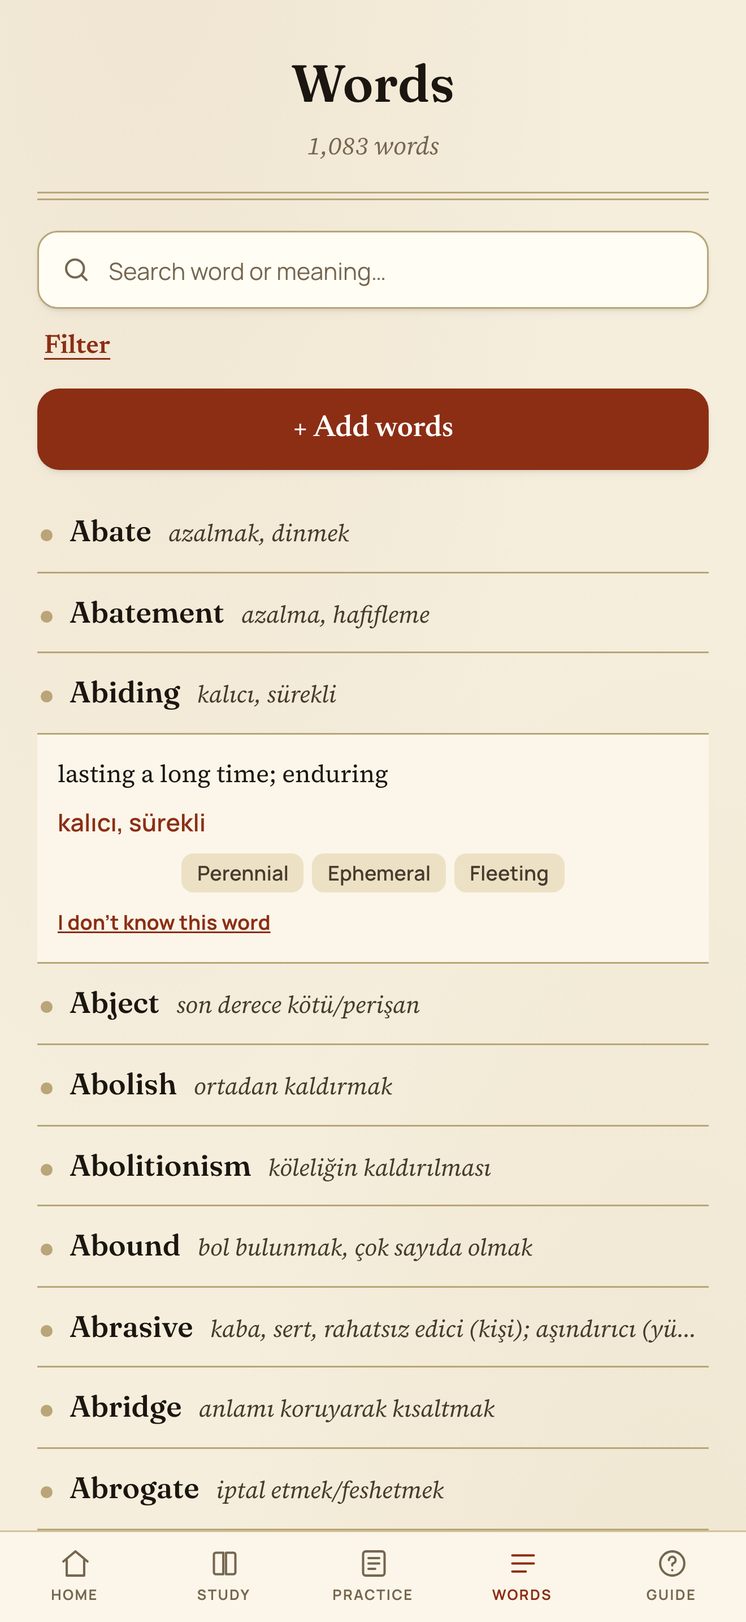
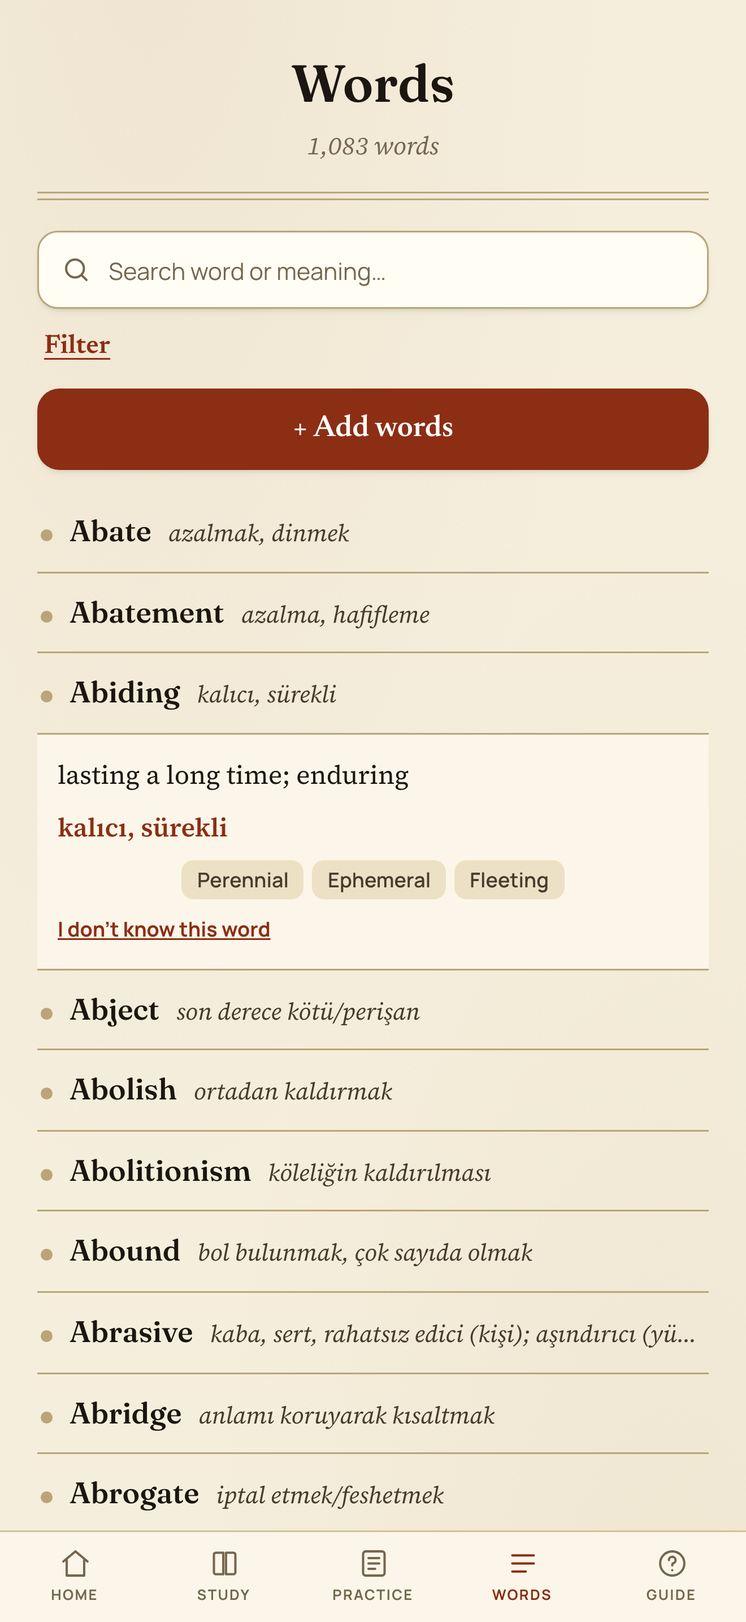
Practice nav above the meanings, serif meanings, a meaning for every option, Reach us
- Previous / Next now sit right under the verdict, before the option meanings
  and the explanation, so moving on never means scrolling past them
- Option meanings, the explanation, the verdict, and the meanings in the word
  list and word detail are set in Source Serif 4 like the words they explain
- Every practice option shows a meaning: options that are not in the word list
  carry their own (g / g_tr in data/questions.js); the data test enforces it
- Settings gains a Reach us panel with a mail link from config.contactEmail;
  the privacy page uses the same address
- supabase/notify-signups.sql + tools/signup-mailer.gs: an email to the owner
  for every new account (pg_net trigger -> Google Apps Script)
- CLAUDE.md for future sessions in this folder; store screenshots regenerated

Changed region(s): [[0.0621, 0.7137, 0.9008, 0.931], [0.0621, 0.4655, 0.7455, 0.6827]]

diff --git a/data/questions.js b/data/questions.js
@@ -1,18 +1,20 @@
 /* Practice bank. ex = English explanation (always shown); ex_<lang> = the same
-   explanation in another language, shown underneath when that language is chosen. */
+   explanation in another language, shown underneath when that language is chosen.
+   g = short meanings for options that are not in the word list; g_<lang> = the same
+   in another language. Options that are in the list take their meaning from it. */
 var QUESTIONS = [
-{"id":"c1","sec":"wic","p":"Marine biologists once assumed that reef fish populations recover quickly after severe storms. Long-term data from the Great Barrier Reef, however, ___ this assumption: several species take more than a decade to return to pre-storm numbers.","o":["bolster","undermine","replicate","anticipate"],"a":1,"ex":"'However' signals a contrast with the old assumption, and slow recovery means the data works against it. Undermine = weaken. Bolster is the opposite (support).","ex_tr":"'however' + yavaş toparlanma → veri varsayımı zayıflatıyor. Undermine = zayıflatmak, çürütmek. Bolster tam tersi (desteklemek)."},
-{"id":"c2","sec":"wic","p":"Because the trial's results were preliminary, the team was careful to ___ its claims, describing the treatment as “promising” rather than “proven.”","o":["temper","trumpet","dismiss","fabricate"],"a":0,"ex":"Calling the treatment 'promising' rather than 'proven' softens the claim. Temper = moderate, tone down. Trumpet would exaggerate it.","ex_tr":"'promising' deyip 'proven' dememek = iddiayı yumuşatmak. Temper = ölçülü hâle getirmek, yumuşatmak."},
-{"id":"c3","sec":"wic","p":"Composer Florence Price was remarkably ___ : in less than three decades she completed more than 300 works, from art songs to full symphonies.","o":["prolific","meticulous","derivative","reclusive"],"a":0,"ex":"More than 300 works in three decades points to sheer output. Prolific = producing a great deal. Meticulous (careful) does not explain the number.","ex_tr":"300+ eser = üretkenlik. Prolific = çok üretken. Meticulous (titiz) sayıyı açıklamaz."},
-{"id":"c4","sec":"wic","p":"Because the manuscript is unsigned and undated, scholars can only ___ about who wrote it, drawing on hints in the handwriting and the ink.","o":["speculate","substantiate","concede","reminisce"],"a":0,"ex":"With no signature or date, scholars have only hints, so they can only guess. Speculate = form a theory without firm evidence. Substantiate needs proof.","ex_tr":"Kanıt yok, sadece ipucu → speculate = kanıta tam dayanmadan tahmin yürütmek. (Rhetorical verbs listenden!)"},
-{"id":"c5","sec":"wic","p":"Working independently, the two research teams arrived at the same estimate of the glacier's age — a ___ that lent considerable weight to the finding.","o":["discrepancy","convergence","conjecture","rebuttal"],"a":1,"ex":"Two independent teams reaching the same estimate is a coming-together of results. Convergence = agreement from separate directions. Discrepancy is the opposite.","ex_tr":"Bağımsız iki ekip aynı sonuca varıyor = converge (aynı noktada birleşme). Discrepancy (tutarsızlık) tam tersi."},
-{"id":"c6","sec":"wic","p":"Critics who once dismissed the artist's early collages as amateur experiments now ___ them as precursors to an entire school of design.","o":["hail","disparage","mimic","obscure"],"a":0,"ex":"'Once dismissed ... now ___' sets up a reversal: the critics now praise the collages. Hail = praise enthusiastically. Disparage describes the old attitude.","ex_tr":"'once dismissed... now ___' → zıtlık: artık övüyorlar. Hail = övgüyle selamlamak. Disparage (kötülemek) eski tutum."},
-{"id":"c7","sec":"wic","p":"Although the region's fossil record is rich in marine species, there is a ___ of evidence for land animals, forcing paleontologists to rely on sites elsewhere.","o":["dearth","plethora","continuum","hierarchy"],"a":0,"ex":"'Although rich in marine species' contrasts with a shortage of land-animal evidence. Dearth = scarcity (a synonym of paucity). Plethora means the opposite.","ex_tr":"'Although rich... ' → zıtlık: azlık. Dearth = paucity = kıtlık. Plethora (bolluk) tuzak, tam tersi."},
+{"id":"c1","sec":"wic","p":"Marine biologists once assumed that reef fish populations recover quickly after severe storms. Long-term data from the Great Barrier Reef, however, ___ this assumption: several species take more than a decade to return to pre-storm numbers.","o":["bolster","undermine","replicate","anticipate"],"a":1,"ex":"'However' signals a contrast with the old assumption, and slow recovery means the data works against it. Undermine = weaken. Bolster is the opposite (support).","ex_tr":"'however' + yavaş toparlanma → veri varsayımı zayıflatıyor. Undermine = zayıflatmak, çürütmek. Bolster tam tersi (desteklemek).","g":{"replicate":"to make an exact copy; to repeat an experiment","anticipate":"to expect, and prepare for"},"g_tr":{"replicate":"kopyalamak; (deneyi) tekrarlamak","anticipate":"önceden tahmin etmek, beklemek"}},
+{"id":"c2","sec":"wic","p":"Because the trial's results were preliminary, the team was careful to ___ its claims, describing the treatment as “promising” rather than “proven.”","o":["temper","trumpet","dismiss","fabricate"],"a":0,"ex":"Calling the treatment 'promising' rather than 'proven' softens the claim. Temper = moderate, tone down. Trumpet would exaggerate it.","ex_tr":"'promising' deyip 'proven' dememek = iddiayı yumuşatmak. Temper = ölçülü hâle getirmek, yumuşatmak.","g":{"temper":"to moderate; to soften","trumpet":"to announce loudly and proudly","dismiss":"to reject as not worth considering","fabricate":"to invent a story or data in order to deceive"},"g_tr":{"temper":"yumuşatmak, ölçülü hâle getirmek","trumpet":"yüksek sesle duyurmak, öve öve anlatmak","dismiss":"reddetmek, göz ardı etmek","fabricate":"uydurmak"}},
+{"id":"c3","sec":"wic","p":"Composer Florence Price was remarkably ___ : in less than three decades she completed more than 300 works, from art songs to full symphonies.","o":["prolific","meticulous","derivative","reclusive"],"a":0,"ex":"More than 300 works in three decades points to sheer output. Prolific = producing a great deal. Meticulous (careful) does not explain the number.","ex_tr":"300+ eser = üretkenlik. Prolific = çok üretken. Meticulous (titiz) sayıyı açıklamaz.","g":{"prolific":"producing a great many works","derivative":"copied from others; not original","reclusive":"keeping away from other people"},"g_tr":{"prolific":"üretken, verimli","derivative":"taklit, özgün olmayan","reclusive":"içine kapanık, insanlardan uzak duran"}},
+{"id":"c4","sec":"wic","p":"Because the manuscript is unsigned and undated, scholars can only ___ about who wrote it, drawing on hints in the handwriting and the ink.","o":["speculate","substantiate","concede","reminisce"],"a":0,"ex":"With no signature or date, scholars have only hints, so they can only guess. Speculate = form a theory without firm evidence. Substantiate needs proof.","ex_tr":"Kanıt yok, sadece ipucu → speculate = kanıta tam dayanmadan tahmin yürütmek. (Rhetorical verbs listenden!)","g":{"reminisce":"to recall the past with pleasure"},"g_tr":{"reminisce":"geçmişi özlemle anmak"}},
+{"id":"c5","sec":"wic","p":"Working independently, the two research teams arrived at the same estimate of the glacier's age — a ___ that lent considerable weight to the finding.","o":["discrepancy","convergence","conjecture","rebuttal"],"a":1,"ex":"Two independent teams reaching the same estimate is a coming-together of results. Convergence = agreement from separate directions. Discrepancy is the opposite.","ex_tr":"Bağımsız iki ekip aynı sonuca varıyor = converge (aynı noktada birleşme). Discrepancy (tutarsızlık) tam tersi.","g":{"discrepancy":"a difference between things that should agree","convergence":"a coming together to the same point from different directions"},"g_tr":{"discrepancy":"tutarsızlık, uyumsuzluk","convergence":"aynı noktada birleşme"}},
+{"id":"c6","sec":"wic","p":"Critics who once dismissed the artist's early collages as amateur experiments now ___ them as precursors to an entire school of design.","o":["hail","disparage","mimic","obscure"],"a":0,"ex":"'Once dismissed ... now ___' sets up a reversal: the critics now praise the collages. Hail = praise enthusiastically. Disparage describes the old attitude.","ex_tr":"'once dismissed... now ___' → zıtlık: artık övüyorlar. Hail = övgüyle selamlamak. Disparage (kötülemek) eski tutum.","g":{"hail":"to praise enthusiastically; to greet","mimic":"to imitate"},"g_tr":{"hail":"övgüyle karşılamak, selamlamak","mimic":"taklit etmek"}},
+{"id":"c7","sec":"wic","p":"Although the region's fossil record is rich in marine species, there is a ___ of evidence for land animals, forcing paleontologists to rely on sites elsewhere.","o":["dearth","plethora","continuum","hierarchy"],"a":0,"ex":"'Although rich in marine species' contrasts with a shortage of land-animal evidence. Dearth = scarcity (a synonym of paucity). Plethora means the opposite.","ex_tr":"'Although rich... ' → zıtlık: azlık. Dearth = paucity = kıtlık. Plethora (bolluk) tuzak, tam tersi.","g":{"continuum":"a continuous range with no sharp divisions","hierarchy":"a system of ranks, one above another"},"g_tr":{"continuum":"süreklilik, kesintisiz dizi","hierarchy":"hiyerarşi, sıralı düzen"}},
 {"id":"c8","sec":"wic","p":"The compound appears ___ at low doses; only when concentrations rise sharply does it begin to damage cells.","o":["innocuous","noxious","salient","volatile"],"a":0,"ex":"Harmless at low doses, damaging only when concentrations rise. Innocuous = harmless. Noxious (poisonous) describes the high-dose effect.","ex_tr":"Düşük dozda zarar yok → innocuous = benign = zararsız. Noxious (zehirli) ancak yüksek dozda."},
-{"id":"c9","sec":"wic","p":"In her summary, the economist focused on the most ___ features of the data — the handful of trends a policymaker could not afford to ignore.","o":["salient","obscure","benign","redundant"],"a":0,"ex":"Trends a policymaker cannot ignore are the most noticeable and important ones. Salient = most prominent. Obscure is the opposite.","ex_tr":"'ignore edilemeyecek' → en belirgin/önemli = salient. Obscure (belirsiz) tam tersi."},
-{"id":"c10","sec":"wic","p":"Compelling anecdotes may make the hypothesis seem plausible, but they cannot ___ it; only controlled trials can do that.","o":["substantiate","entertain","paraphrase","eclipse"],"a":0,"ex":"Anecdotes are not proof; only controlled trials can confirm the hypothesis. Substantiate = support with evidence.","ex_tr":"Anekdot kanıt değildir → kanıtla doğrulamak = substantiate (Support a claim kategorisi)."},
+{"id":"c9","sec":"wic","p":"In her summary, the economist focused on the most ___ features of the data — the handful of trends a policymaker could not afford to ignore.","o":["salient","obscure","benign","redundant"],"a":0,"ex":"Trends a policymaker cannot ignore are the most noticeable and important ones. Salient = most prominent. Obscure is the opposite.","ex_tr":"'ignore edilemeyecek' → en belirgin/önemli = salient. Obscure (belirsiz) tam tersi.","g":{"redundant":"not needed; repeating what is already there"},"g_tr":{"redundant":"gereksiz, fazlalık"}},
+{"id":"c10","sec":"wic","p":"Compelling anecdotes may make the hypothesis seem plausible, but they cannot ___ it; only controlled trials can do that.","o":["substantiate","entertain","paraphrase","eclipse"],"a":0,"ex":"Anecdotes are not proof; only controlled trials can confirm the hypothesis. Substantiate = support with evidence.","ex_tr":"Anekdot kanıt değildir → kanıtla doğrulamak = substantiate (Support a claim kategorisi).","g":{"entertain":"to consider an idea; to amuse","paraphrase":"to say the same thing in other words"},"g_tr":{"entertain":"(bir fikri) değerlendirmek; eğlendirmek","paraphrase":"başka sözcüklerle ifade etmek"}},
 {"id":"c11","sec":"wic","p":"Surveys reveal a deep ___ toward workplace automation: employees welcome relief from repetitive tasks yet fear for their long-term roles.","o":["ambivalence","consensus","indifference","animosity"],"a":0,"ex":"Welcoming relief while fearing for their roles is having two opposite feelings at once. Ambivalence = mixed feelings. Indifference would mean not caring.","ex_tr":"Hem olumlu hem olumsuz duygu = ambivalence. Indifference (umursamama) tuzak — burada duygu güçlü, kararsız."},
-{"id":"c12","sec":"wic","p":"The soprano's phrasing was so ___ that listeners could identify a recording of hers within a few notes.","o":["distinctive","conventional","muted","erratic"],"a":0,"ex":"If listeners can identify her in a few notes, her phrasing is unmistakably her own. Distinctive = characteristic, recognisable. Conventional is the opposite.","ex_tr":"Birkaç notada tanınıyor → kendine özgü = distinctive. Conventional (sıradan) tam tersi."},
+{"id":"c12","sec":"wic","p":"The soprano's phrasing was so ___ that listeners could identify a recording of hers within a few notes.","o":["distinctive","conventional","muted","erratic"],"a":0,"ex":"If listeners can identify her in a few notes, her phrasing is unmistakably her own. Distinctive = characteristic, recognisable. Conventional is the opposite.","ex_tr":"Birkaç notada tanınıyor → kendine özgü = distinctive. Conventional (sıradan) tam tersi.","g":{"conventional":"following accepted custom; ordinary","muted":"softened, subdued (of colour or sound)"},"g_tr":{"conventional":"geleneksel, alışılmış","muted":"yumuşatılmış, kısık"}},
 {"id":"g1","sec":"wr","p":"Ceramicist Toshiko Takaezu rarely titled her ___ she wanted viewers to meet each piece without instructions.","o":["works,","works;","works","works, moreover,"],"a":1,"ex":"Both halves are independent clauses. A comma alone makes a comma splice; a semicolon joins two full sentences. 'Moreover' cannot join clauses with a comma.","ex_tr":"İki taraf da IC. 'IC, IC' = comma splice (#1 tuzak). Semicolon iki IC'yi bağlar. Moreover false joiner — virgülle IC bağlayamaz."},
 {"id":"g2","sec":"wr","p":"For the entire series of engravings the artist used a single ___ a steel burin no wider than a grain of rice.","o":["tool:","tool;","tool, and","tool"],"a":0,"ex":"The right side ('a steel burin ...') is not a full sentence, so a semicolon is wrong. A colon can follow a complete clause to introduce an explanation.","ex_tr":"Sağ taraf cümle değil (fragment) → semicolon olmaz. Colon: sol taraf IC ise sağa liste/açıklama gelebilir."},
 {"id":"g3","sec":"wr","p":"In 1963, Maria Goeppert ___ received the Nobel Prize in Physics for her shell model of the nucleus.","o":["Mayer, a German-born theorist,","Mayer, a German-born theorist","Mayer a German-born theorist,","Mayer a German-born theorist"],"a":0,"ex":"'A German-born theorist' is an appositive, extra information that must be closed by a second comma. Remove it and the sentence still stands.","ex_tr":"Appositive (ara açıklama) İKİ virgülle kapanır — parantez tekniği: çıkarınca cümle yine tam."},

diff --git a/index.html b/index.html
@@ -348,7 +348,7 @@ input:focus-visible{outline:2px solid var(--accent);outline-offset:1px}
   border-bottom:1px solid var(--rule)}
 .wl div:last-child{border-bottom:0}
 .wl b{font-family:var(--serif);font-size:15.5px;font-weight:600;flex:none;color:var(--ink)}
-.wl span{font-size:12.5px;color:var(--mute);line-height:1.4;overflow:hidden}
+.wl span{font-family:var(--serif);font-size:13.5px;color:var(--mute);line-height:1.4;overflow:hidden}
 
 /* ============================== TRAIL ============================= */
 .mapwrap{position:relative;margin:4px auto 0;width:100%;max-width:300px}
@@ -384,14 +384,14 @@ input:focus-visible{outline:2px solid var(--accent);outline-offset:1px}
 .wrow:hover{background:var(--raise)}
 .wrow:focus-visible{outline:2px solid var(--accent);outline-offset:2px}
 .wrow .w{font-family:var(--serif);font-size:calc(16px * var(--s));font-weight:600;color:var(--ink);flex:none}
-.wrow .t{font-size:calc(12.5px * var(--s));color:var(--mute);line-height:1.4;flex:1;overflow:hidden;
+.wrow .t{font-family:var(--serif);font-size:calc(13.5px * var(--s));color:var(--mute);line-height:1.4;flex:1;overflow:hidden;
   text-overflow:ellipsis;white-space:nowrap}
 .wrow .pip{width:7px;height:7px;border-radius:50%;flex:none;background:var(--rule2)}
 .wrow .pip.tricky{background:var(--gold)}
 .wrow .pip.mastered{background:var(--sage)}
 .wdetail{padding:13px 15px;border-radius:11px;background:var(--raise);
   border:1px solid var(--rule2);margin-top:-6px}
-.wdetail p{margin:0 0 7px;font-size:calc(13.5px * var(--s));line-height:1.55}
+.wdetail p{margin:0 0 7px;font-family:var(--serif);font-size:calc(14.5px * var(--s));line-height:1.55}
 .wdetail p:last-child{margin-bottom:0}
 .wdetail .tr{color:var(--accent);font-weight:600}
 .wdetail .en{font-family:var(--serif);color:var(--ink)}
@@ -492,7 +492,7 @@ input:focus-visible{outline:2px solid var(--accent);outline-offset:1px}
 .qnum{font-size:11px;font-weight:700;color:var(--mute);font-variant-numeric:tabular-nums}
 .qstem{margin:0 0 15px;font-family:var(--serif);font-size:calc(15.5px * var(--s));line-height:1.68;color:var(--ink)}
 .qex{margin:12px 0 0;padding:11px 13px;border-radius:10px;background:var(--accentsoft);
-  border:1px solid var(--rule2);font-size:13px;line-height:1.55;color:var(--ink2)}
+  border:1px solid var(--rule2);font-family:var(--serif);font-size:14.5px;line-height:1.55;color:var(--ink2)}
 .qnav{display:grid;grid-template-columns:1fr 1fr;gap:9px;margin-top:12px}
 .qnav button{padding:12px;border-radius:11px;background:var(--raise);
   border:1px solid var(--rule);box-shadow:var(--shadow-sm);
@@ -629,7 +629,7 @@ input:focus-visible{outline:2px solid var(--accent);outline-offset:1px}
 /* No frame: framed, it read as a fifth answer. A mark and a word, in the
    answer's colour, say it. */
 .verdict{display:flex;align-items:center;gap:8px;margin:14px 0 0;padding:0 2px;
-  font-size:14px;font-weight:700;letter-spacing:.01em}
+  font-family:var(--serif);font-size:15.5px;font-weight:600;letter-spacing:.01em}
 .verdict .mk{width:18px;height:18px;flex:none;border-radius:50%;display:grid;
   place-items:center;font-size:11px;line-height:1;color:#fff}
 .verdict.ok{color:var(--sage)}
@@ -663,7 +663,7 @@ input:focus-visible{outline:2px solid var(--accent);outline-offset:1px}
 .opts-gloss i{font-style:normal;font-family:var(--control);font-size:12px;color:var(--mute);
   width:16px;flex:none}
 .opts-gloss b{font-family:var(--serif);font-weight:600;color:var(--ink);flex:none}
-.opts-gloss span{color:var(--ink2);line-height:1.45}
+.opts-gloss span{font-family:var(--serif);font-size:14.5px;color:var(--ink2);line-height:1.45}
 .opts-gloss .is-ans b{color:var(--sage)}
 
 /* ------------------------- welcome (first run) ---------------------- */
@@ -1083,12 +1083,12 @@ input[type=date]::-webkit-date-and-time-value{text-align:left}
         <div class="choices" id="q-choices"></div>
         <button class="idk" id="q-idk" hidden>I don’t know this word</button>
         <div class="verdict" id="q-verdict" hidden></div>
-        <div class="opts-gloss" id="q-gloss" hidden></div>
-        <div class="qex" id="q-ex" hidden></div>
         <div class="qnav">
           <button id="q-prev">← Previous</button>
           <button id="q-next">Next →</button>
         </div>
+        <div class="opts-gloss" id="q-gloss" hidden></div>
+        <div class="qex" id="q-ex" hidden></div>
       </div>
       <div class="qdone" id="q-done" hidden>
         <b id="q-score">0</b><span id="q-scoresub"></span>
@@ -1244,6 +1244,13 @@ input[type=date]::-webkit-date-and-time-value{text-align:left}
       <div class="panel">
         <p class="lab">Theme</p>
         <div class="swatches" id="themes"></div>
+      </div>
+
+      <div class="panel" id="reach" hidden>
+        <p class="lab">Reach us</p>
+        <p style="margin:0 0 12px;font-size:13px;line-height:1.55;color:var(--ink2)">A wrong meaning,
+          a question, an idea for the app: write to us. Every message is read.</p>
+        <a class="go ghost" id="reach-mail" href="#" style="display:block;text-align:center;text-decoration:none"></a>
       </div>
 
       <div class="panel">
@@ -2467,6 +2474,13 @@ function gradeChoices(box, answer, picked, animate) {
     if (animate && j === picked) b.classList.add('picked');
   });
 }
+/* Options that are not in the word list carry their own short meaning in
+   the question: g = English, g_<lang> = the same in that language. */
+function optionGloss(q, o) {
+  var en = q.g && q.g[o] ? q.g[o] : '';
+  var nat = PROF.lang && PROF.lang !== 'en' && q['g_' + PROF.lang] && q['g_' + PROF.lang][o] ? q['g_' + PROF.lang][o] : '';
+  return en + (nat ? ' · ' + nat : '');
+}
 var ANIM = false;              /* true only while an answer is being revealed */
 function renderQuestion(keepChoices) {
   renderQSections();
@@ -2505,6 +2519,7 @@ function renderQuestion(keepChoices) {
       var k = indexOfWord(String(o)), m = '';
       if (k < 0) k = indexOfWord(String(o).charAt(0).toUpperCase() + String(o).slice(1));
       if (k >= 0) m = (WORDS[k][W_EN] || '') + (glossOf(WORDS[k]) ? ' · ' + glossOf(WORDS[k]) : '');
+      else m = optionGloss(q, o);
       return '<div' + (i === q.a ? ' class="is-ans"' : '') + '><i>' + 'ABCD'[i] + '</i>'
         + '<b>' + esc(o) + '</b><span>' + esc(m) + '</span></div>';
     }).join('');
@@ -2651,6 +2666,9 @@ $('add-save').addEventListener('click', function () {
 
 /* ------------------------------ settings -------------------------- */
 function renderSettings() {
+  var ce = (window.LEXICON_CONFIG || {}).contactEmail || '';
+  $('reach').hidden = !ce;
+  if (ce) { $('reach-mail').href = 'mailto:' + ce + '?subject=' + encodeURIComponent('Lexicon'); $('reach-mail').textContent = ce; }
   var live = document.activeElement;
   if (live !== $('p-name')) $('p-name').value = PROF.name || '';
   if (live !== $('p-test')) $('p-test').value = PROF.testDate || '';

diff --git a/tests/mock/supabase-mock.js b/tests/mock/supabase-mock.js
@@ -6,7 +6,7 @@
  * and rpc(). Everything lives in memory and is thrown away with the page.
  */
 (function () {
-  var cfg = { supabaseUrl: 'https://mock.local', supabaseKey: 'mock-key', supabaseSdkUrl: 'about:blank', authProviders: ['email', 'google'], requireAccount: true };
+  var cfg = { supabaseUrl: 'https://mock.local', supabaseKey: 'mock-key', supabaseSdkUrl: 'about:blank', authProviders: ['email', 'google'], requireAccount: true, contactEmail: 'help' + '@' + 'mock.local' };
   Object.defineProperty(window, 'LEXICON_CONFIG', { get: function () { return cfg; }, set: function () {}, configurable: true });
 
   var rows = {};          /* key -> value, for the single fake person */

diff --git a/config.js b/config.js
@@ -20,6 +20,9 @@ window.LEXICON_CONFIG = {
      build of @supabase/supabase-js 2.116.0 (MIT). */
   supabaseSdkUrl: 'vendor/supabase.js',
 
+  /* Shown in Settings → Reach us (a mail link) and on the privacy page. */
+  contactEmail: 'lexicon.yaso@gmail.com',
+
   /* Version 1 asks every new user to sign in on the welcome screen, so their
      progress lives in the database from day one. false turns that into an
      offer: Start works without an account and Settings still has sign-in. */

diff --git a/privacy.html b/privacy.html
@@ -66,7 +66,7 @@ and it will be removed.</p>
 <p>If this policy changes, the new version is published at this address with a new effective date.</p>
 
 <h2>Contact</h2>
-<p>Questions about privacy: <a href="mailto:CONTACT-EMAIL">CONTACT-EMAIL</a></p>
+<p>Questions about privacy: <a href="mailto:lexicon.yaso@gmail.com">lexicon.yaso@gmail.com</a></p>
 </main>
 </body>
 </html>

diff --git a/CLAUDE.md b/CLAUDE.md
@@ -1,0 +1,68 @@
+# Lexicon (lexicon-app) — notes for Claude
+
+SAT Reading & Writing vocabulary app: ~1,083 words, spaced repetition, practice
+questions in the test's format, guide sheets, meanings in 11 languages. This
+public rewrite goes to the App Store; the personal original lives in `~/lexicon`
+and is read-only reference. Owner: Yasemin (solo developer, student). About 30
+users in China and Türkiye already; a backend (Supabase) holds progress.
+
+## Hard rules
+
+- **No test or dummy data in the app or the real database.** Fixtures and fake
+  accounts exist only under `tests/` (the mock backend is injected by the test
+  runner; nothing in the app references it). Never create users in the real
+  Supabase project for testing; the owner creates the App Review account herself.
+- The Supabase publishable key in `config.js` is public by design; Row Level
+  Security protects data. Never put the service-role key, SMTP passwords or
+  Google App Passwords anywhere in the repo or in chat.
+- Vanilla JS, one `index.html`, no build step for the web app. Data lives in
+  `data/*.js`. Keep it that way.
+- Run `npm test` before every commit (data checks + 36 headless-Chrome checks;
+  needs Node 22+ and Google Chrome). Add a check for every behaviour you add.
+- Bump `CACHE` in `sw.js` when shipped files change.
+
+## Commands
+
+    node tools/serve.mjs        # http://localhost:3000 (the Supabase Site URL for local sign-in)
+    npm test                    # node tests/data.test.mjs && node tests/ui/smoke.mjs
+    npm run ios:sync            # rebuild www/ and copy into the Xcode project (before every archive)
+    npm run ios:open            # open ios/App/App.xcodeproj
+    npm run store:shots         # regenerate store/screenshots/ at Apple's sizes
+
+## Where things are
+
+- `index.html` all screens, styles and logic; CSS tokens per theme on `[data-theme]`.
+- `sync.js` accounts + cloud sync (email code/link, password for accounts that have one,
+  Google/Apple hidden until `authProviders` lists them); `native-auth.js` the phone-side
+  bridge for Google/Apple (1.1); `config.js` deployment settings (`requireAccount`,
+  `authProviders`, `contactEmail`, `nativeAuth`).
+- `data/words.js` rows `[word, english, synonyms, turkish, example, note, band, related]`;
+  `data/questions.js` (`g`/`g_tr` = meanings for options not in the list);
+  `data/sheets.js`; `data/tricky.js`; `data/<lang>.js` glosses keyed by headword.
+- `supabase/schema.sql` (tables, RLS, `delete_my_account`), `supabase/notify-signups.sql`.
+- `ios/` Capacitor 8 project (SPM, iPhone only, bundle id `com.yasette.lexicon`);
+  `www/` is its build input (git-ignored). `store/` App Store screenshots.
+- `tests/` data checks, headless-Chrome smoke suite (`tests/ui`), the mock backend.
+- `privacy.html` the privacy policy for the store listing (GitHub Pages).
+
+## Design taste (the owner's, keep it)
+
+Paper-and-ink look: Fraunces for headings, Source Serif 4 for reading text and
+meanings, Newsreader for chips and buttons, Manrope only for small labels.
+Meanings and explanations are set in the serif, not the sans (she finds the sans
+too thin). No framed pills for filters (a filled pill only on the active chip;
+outlined-no-fill on Practice). No frame on the verdict. Answers grade green/red
+with a small rise animation. Word list reads like lined paper; search in one box;
+filters live in a sheet behind an underlined "Filter". Subtitles under headings
+stay short. Unearned milestones are grey. The name is used only for the home greeting.
+
+## State (17 September 2026)
+
+Branch `polish/audit-2026-09`, committed. Accounts required at first run.
+Supabase live with email sign-in; custom SMTP via a Gmail App Password was being
+set up by the owner. Xcode project builds and runs in the simulator. Apple
+Developer enrolment is in progress through a parent's Individual account.
+The launch checklist is the "Lexicon Launch Runbook" artifact; open items:
+SMTP + templates, reviewer account, GitHub Pages, Apple enrolment, App Store
+Connect listing, TestFlight, submission; Google/Apple sign-in in 1.1;
+native-speaker review of the ten machine-drafted gloss languages.

diff --git a/README.md b/README.md
@@ -163,6 +163,15 @@ Checklist Apple will hold you to:
 - Bump `CACHE` in `sw.js` on every web release; `npm run ios:sync` before
   every archive.
 
+## Reach us, and an email for every new account
+
+`contactEmail` in `config.js` puts a “Reach us” mail link in Settings and the
+same address on the privacy page. To get an email yourself whenever someone
+creates an account, see `supabase/notify-signups.sql` and
+`tools/signup-mailer.gs` (a Google Apps Script that mails the account it is
+deployed from; the SQL adds a trigger that calls it through pg_net). The
+runbook has the click-by-click version.
+
 ## Freemium later
 
 `profiles.plan` / `plan_until` in the schema are reserved for it and can only be
